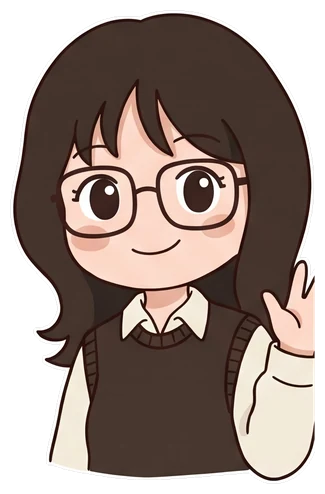
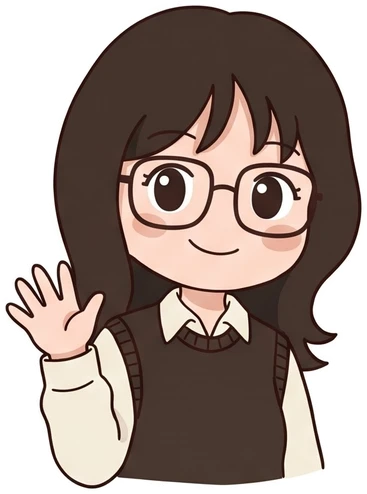
New Mugi sprites; Comic Relief on the sticky note
Claude-Session: https://claude.ai/code/session_01ERzodyXY4NGG79AwRziZtV

diff --git a/index.html b/index.html
@@ -8,7 +8,7 @@
 <meta name="description" content="A free learning ecosystem for digital, data and research skills, starting from zero.">
 <link rel="preconnect" href="https://fonts.googleapis.com">
 <link rel="preconnect" href="https://fonts.gstatic.com" crossorigin>
-<link href="https://fonts.googleapis.com/css2?family=Bricolage+Grotesque:opsz,wght@12..96,600;12..96,800&family=Atkinson+Hyperlegible:wght@400;700&family=JetBrains+Mono:wght@400;600&family=Caveat:wght@600&display=swap" rel="stylesheet">
+<link href="https://fonts.googleapis.com/css2?family=Bricolage+Grotesque:opsz,wght@12..96,600;12..96,800&family=Atkinson+Hyperlegible:wght@400;700&family=JetBrains+Mono:wght@400;600&family=Comic+Relief:wght@400;700&display=swap" rel="stylesheet">
 <link rel="stylesheet" href="shared/style.css">
 <script src="shared/catalog.js"></script>
 <script src="shared/engine.js"></script>
@@ -65,7 +65,7 @@
 .pbody:before{content:"";position:absolute;right:12%;bottom:26%;width:10px;height:10px;border-radius:50%;background:#7fbf6a}
 /* sticky note */
 .a-note{grid-area:note;--tilt:3deg}
-.sticky{background:#f3dd84;aspect-ratio:1/1;max-width:190px;margin:0 auto;padding:12px 12px 10px;transform:rotate(-4deg);box-shadow:0 8px 10px -6px rgba(0,0,0,.45);font-family:"Caveat",var(--body);color:#3b2a10;font-size:clamp(16px,3.6vw,20px);line-height:1.15;display:grid;align-content:start;gap:4px;text-align:left;overflow:hidden}
+.sticky{background:#f3dd84;aspect-ratio:1/1;max-width:190px;margin:0 auto;padding:12px 12px 10px;transform:rotate(-4deg);box-shadow:0 8px 10px -6px rgba(0,0,0,.45);font-family:"Comic Relief","Comic Sans MS",var(--body);color:#3b2a10;font-size:clamp(13px,3vw,16px);line-height:1.3;display:grid;align-content:start;gap:4px;text-align:left;overflow:hidden}
 .sticky b{font-size:1.15em}
 /* mug */
 .a-mug{grid-area:mug;align-self:center;justify-self:center;width:90px;pointer-events:none}
